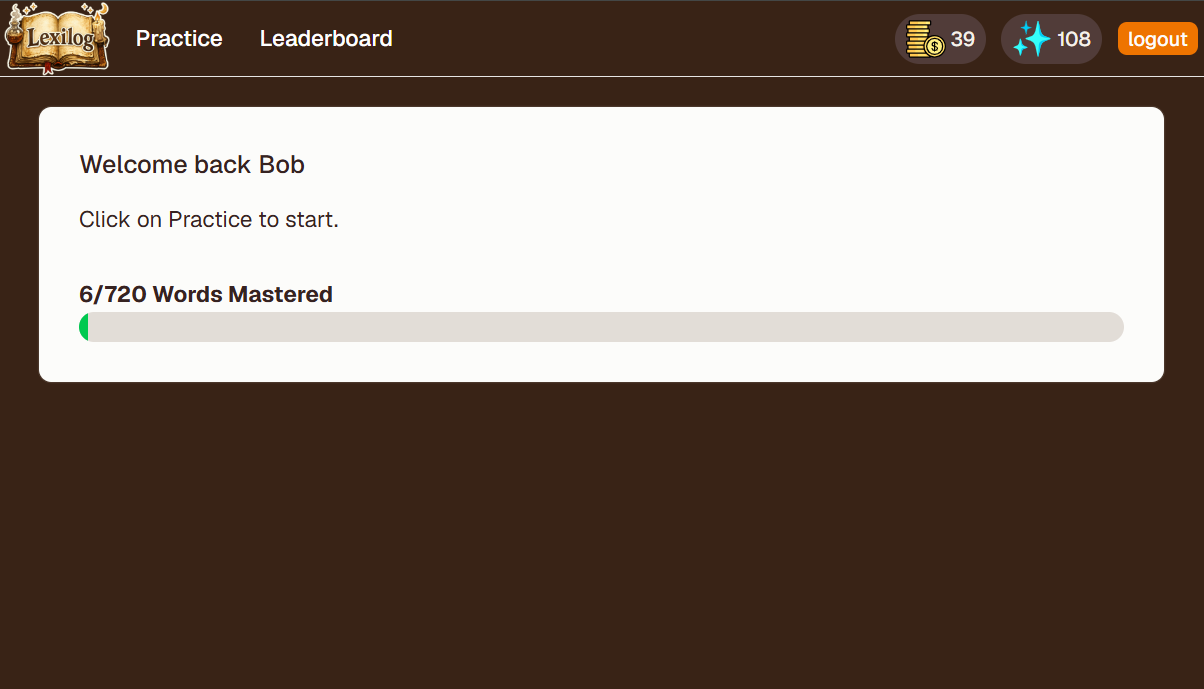
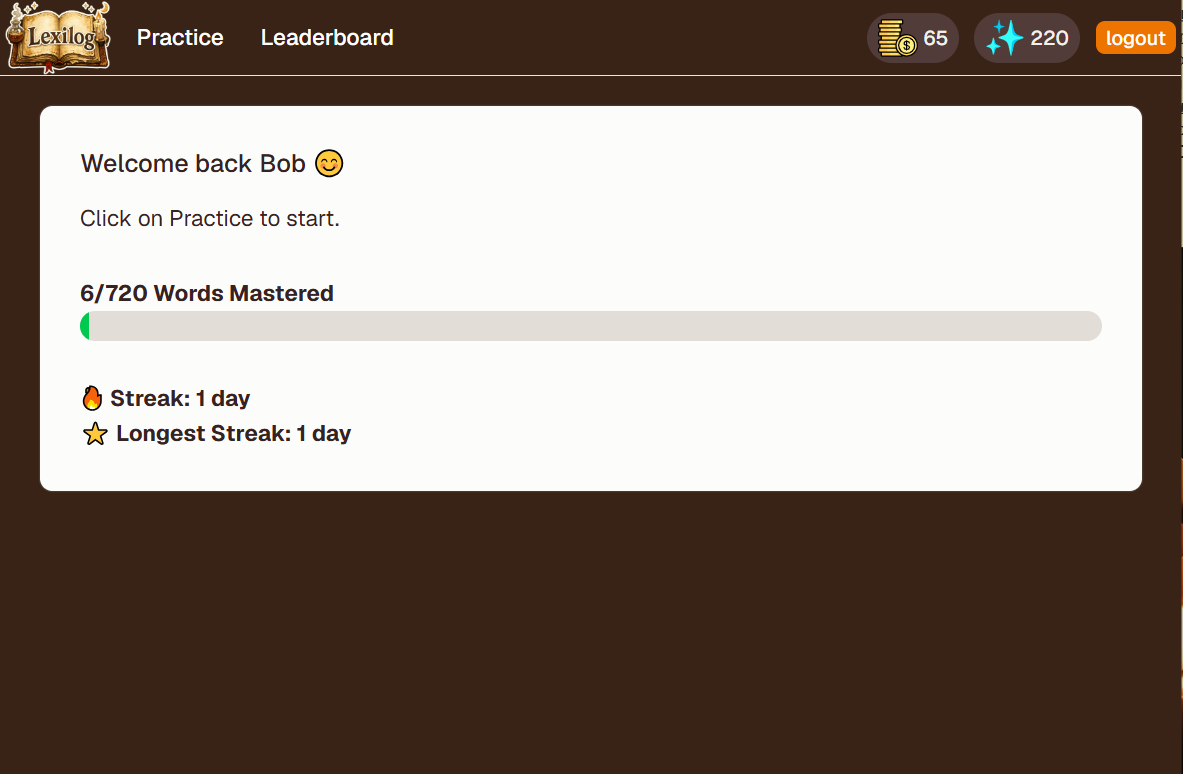
Added Streaks

Changed region(s): [[0.0304, 0.3657, 0.9738, 0.6401], [0.0, 0.0, 1.0, 0.1829], [0.0609, 0.1829, 0.3043, 0.3353]]

diff --git a/frontend/src/components/Home.jsx b/frontend/src/components/Home.jsx
@@ -18,7 +18,7 @@ const Home = ({ user }) => {
       <Card className='px-4 py-8 mx-8'>
         <CardHeader>
           <CardTitle className='text-xl'>
-              Welcome back {`${user.username}`}
+              Welcome back {`${user.username}`} 😊
           </CardTitle>
         </CardHeader>
         <CardContent className='flex flex-col gap-8 text-base'>
@@ -32,6 +32,14 @@ const Home = ({ user }) => {
               indicatorClassName='bg-green-500'
               value={percentageComplete}
             />
+          </div>
+          <div className='font-bold text-lg'>
+            <p>
+              🔥 Streak: {user.currentStreak} {user.currentStreak === 1 ? 'day': 'days'}
+            </p>
+            <p>
+              ⭐ Longest Streak: {user.longestStreak} {user.longestStreak === 1 ? 'day': 'days'}
+            </p>
           </div>
         </CardContent>
       </Card>

diff --git a/frontend/src/components/MultipleChoice/MultipleChoice.jsx b/frontend/src/components/MultipleChoice/MultipleChoice.jsx
@@ -45,7 +45,9 @@ const MultipleChoice = ({ setUser }) => {
         ...user,
         coins: user.coins + response.coinsGained,
         xp: user.xp + response.xpGained,
-        monthlyXp: user.monthlyXp + response.xpGained
+        monthlyXp: user.monthlyXp + response.xpGained,
+        currentStreak: response.currentStreak,
+        longestStreak: response.longestStreak
       }))
     }
 
